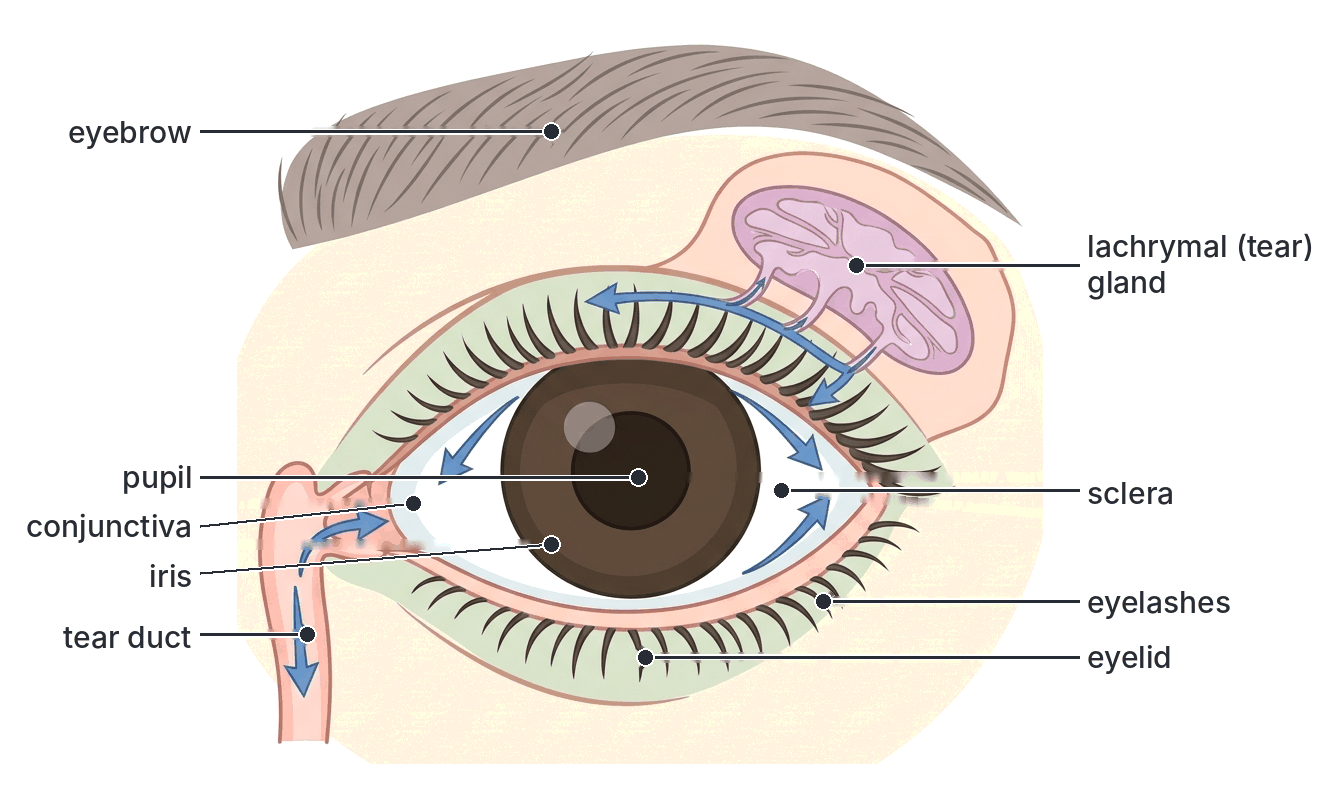
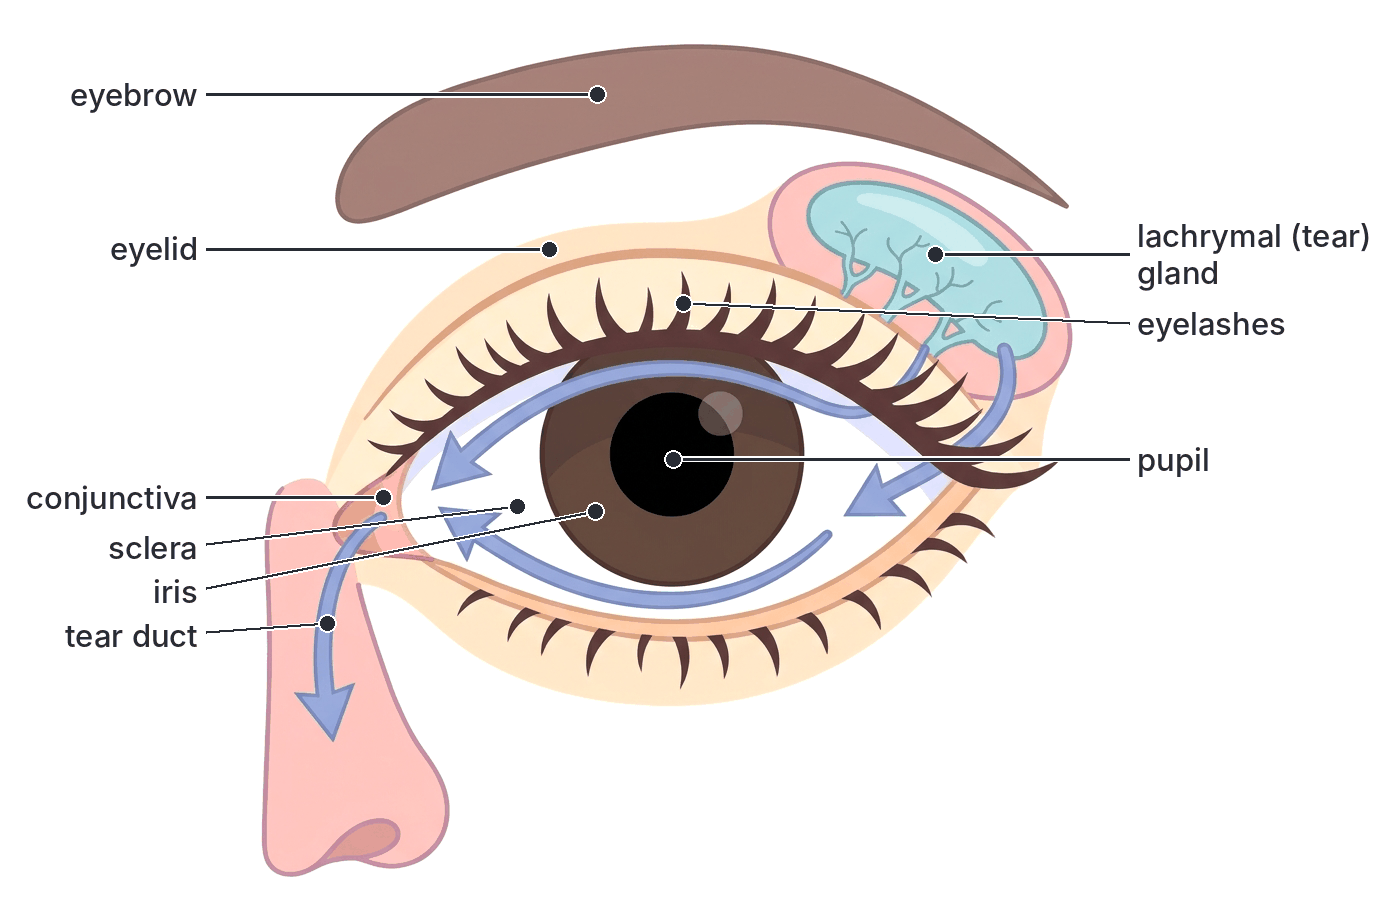
Redo pass biology B9b-sense-organs: 2 regenerated, 1 removed (placeholder restored)
Claude-Session: https://claude.ai/code/session_01AuzkMMKKHsgCscpXnvCsGG

diff --git a/subjects/biology/B9b-sense-organs.md b/subjects/biology/B9b-sense-organs.md
@@ -353,7 +353,7 @@ The eyeball is a roughly spherical organ, about 2.5 cm across. Its wall has **th
 
 **Textbook variation:** some textbooks use "yellow spot" for the whole small central area (the **macula lutea**) and "fovea" (fovea centralis) for the tiny pit at its centre; others treat the two words as the same thing.
 
-![An unlabelled diagram showing a horizontal section through the human eyeball, illustrating structures such as the cornea, lens, retina, sclera, and optic nerve.](images/B9b-06-human-eyeball-horizontal-section.png)
+[IMAGE: Horizontal (longitudinal) section through the human eyeball, viewed from above, front of the eye on the left. Show the tough white sclera forming the outer coat, continuing at the front as the transparent bulging cornea; the dark brown choroid inside the sclera; the pink retina lining the back; the ciliary body with ciliary muscles in a ring; suspensory ligaments as fine lines from the ciliary body to the edge of the biconvex transparent lens; the iris in front of the lens with the gap of the pupil; the small front chamber filled with pale blue aqueous humour; the large rear chamber filled with very pale blue jelly-like vitreous humour; a small pit (fovea) on the retina directly opposite the lens; the blind spot where the yellow optic nerve leaves the back of the eye slightly to one side; the conjunctiva over the front; and a few eye muscles attached to the sclera. Labels: cornea, conjunctiva, aqueous humour, iris, pupil, lens, ciliary body (ciliary muscle), suspensory ligaments, vitreous humour, sclera, choroid, retina, fovea (yellow spot), blind spot, optic nerve, eye muscle. Clean flat textbook style, white background.]
 
 ### How an image is formed on the retina (how we see)
 
